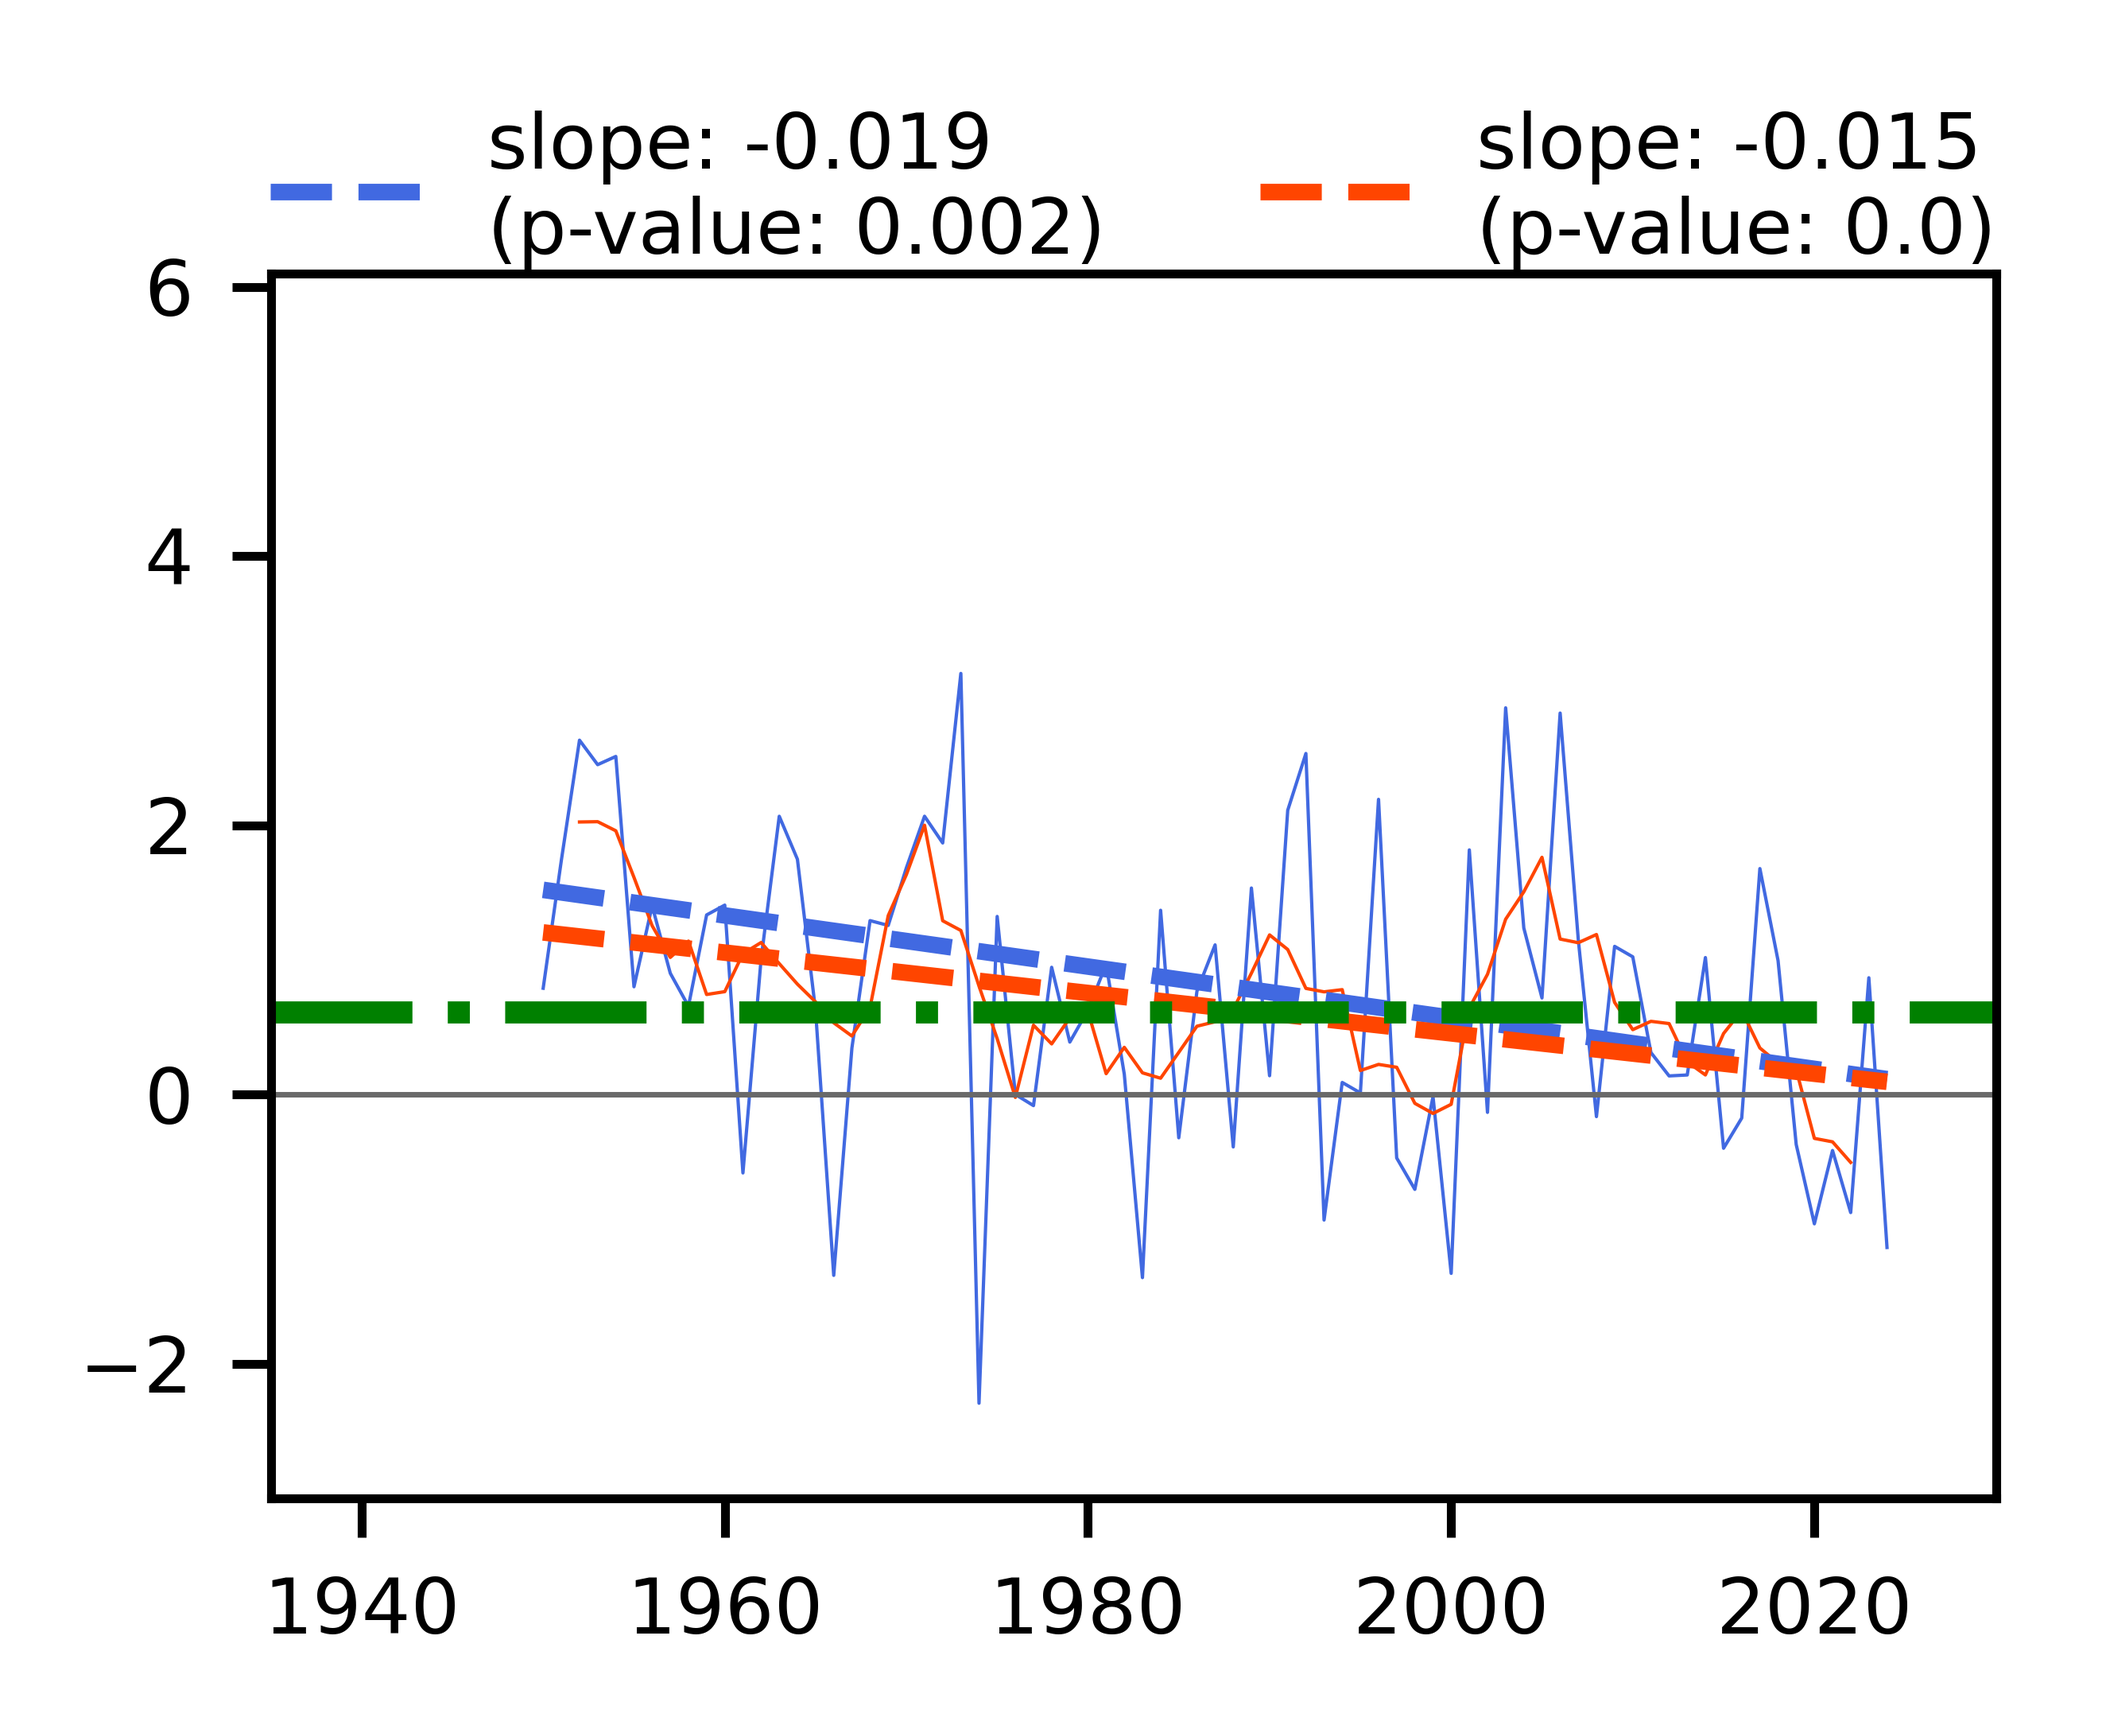
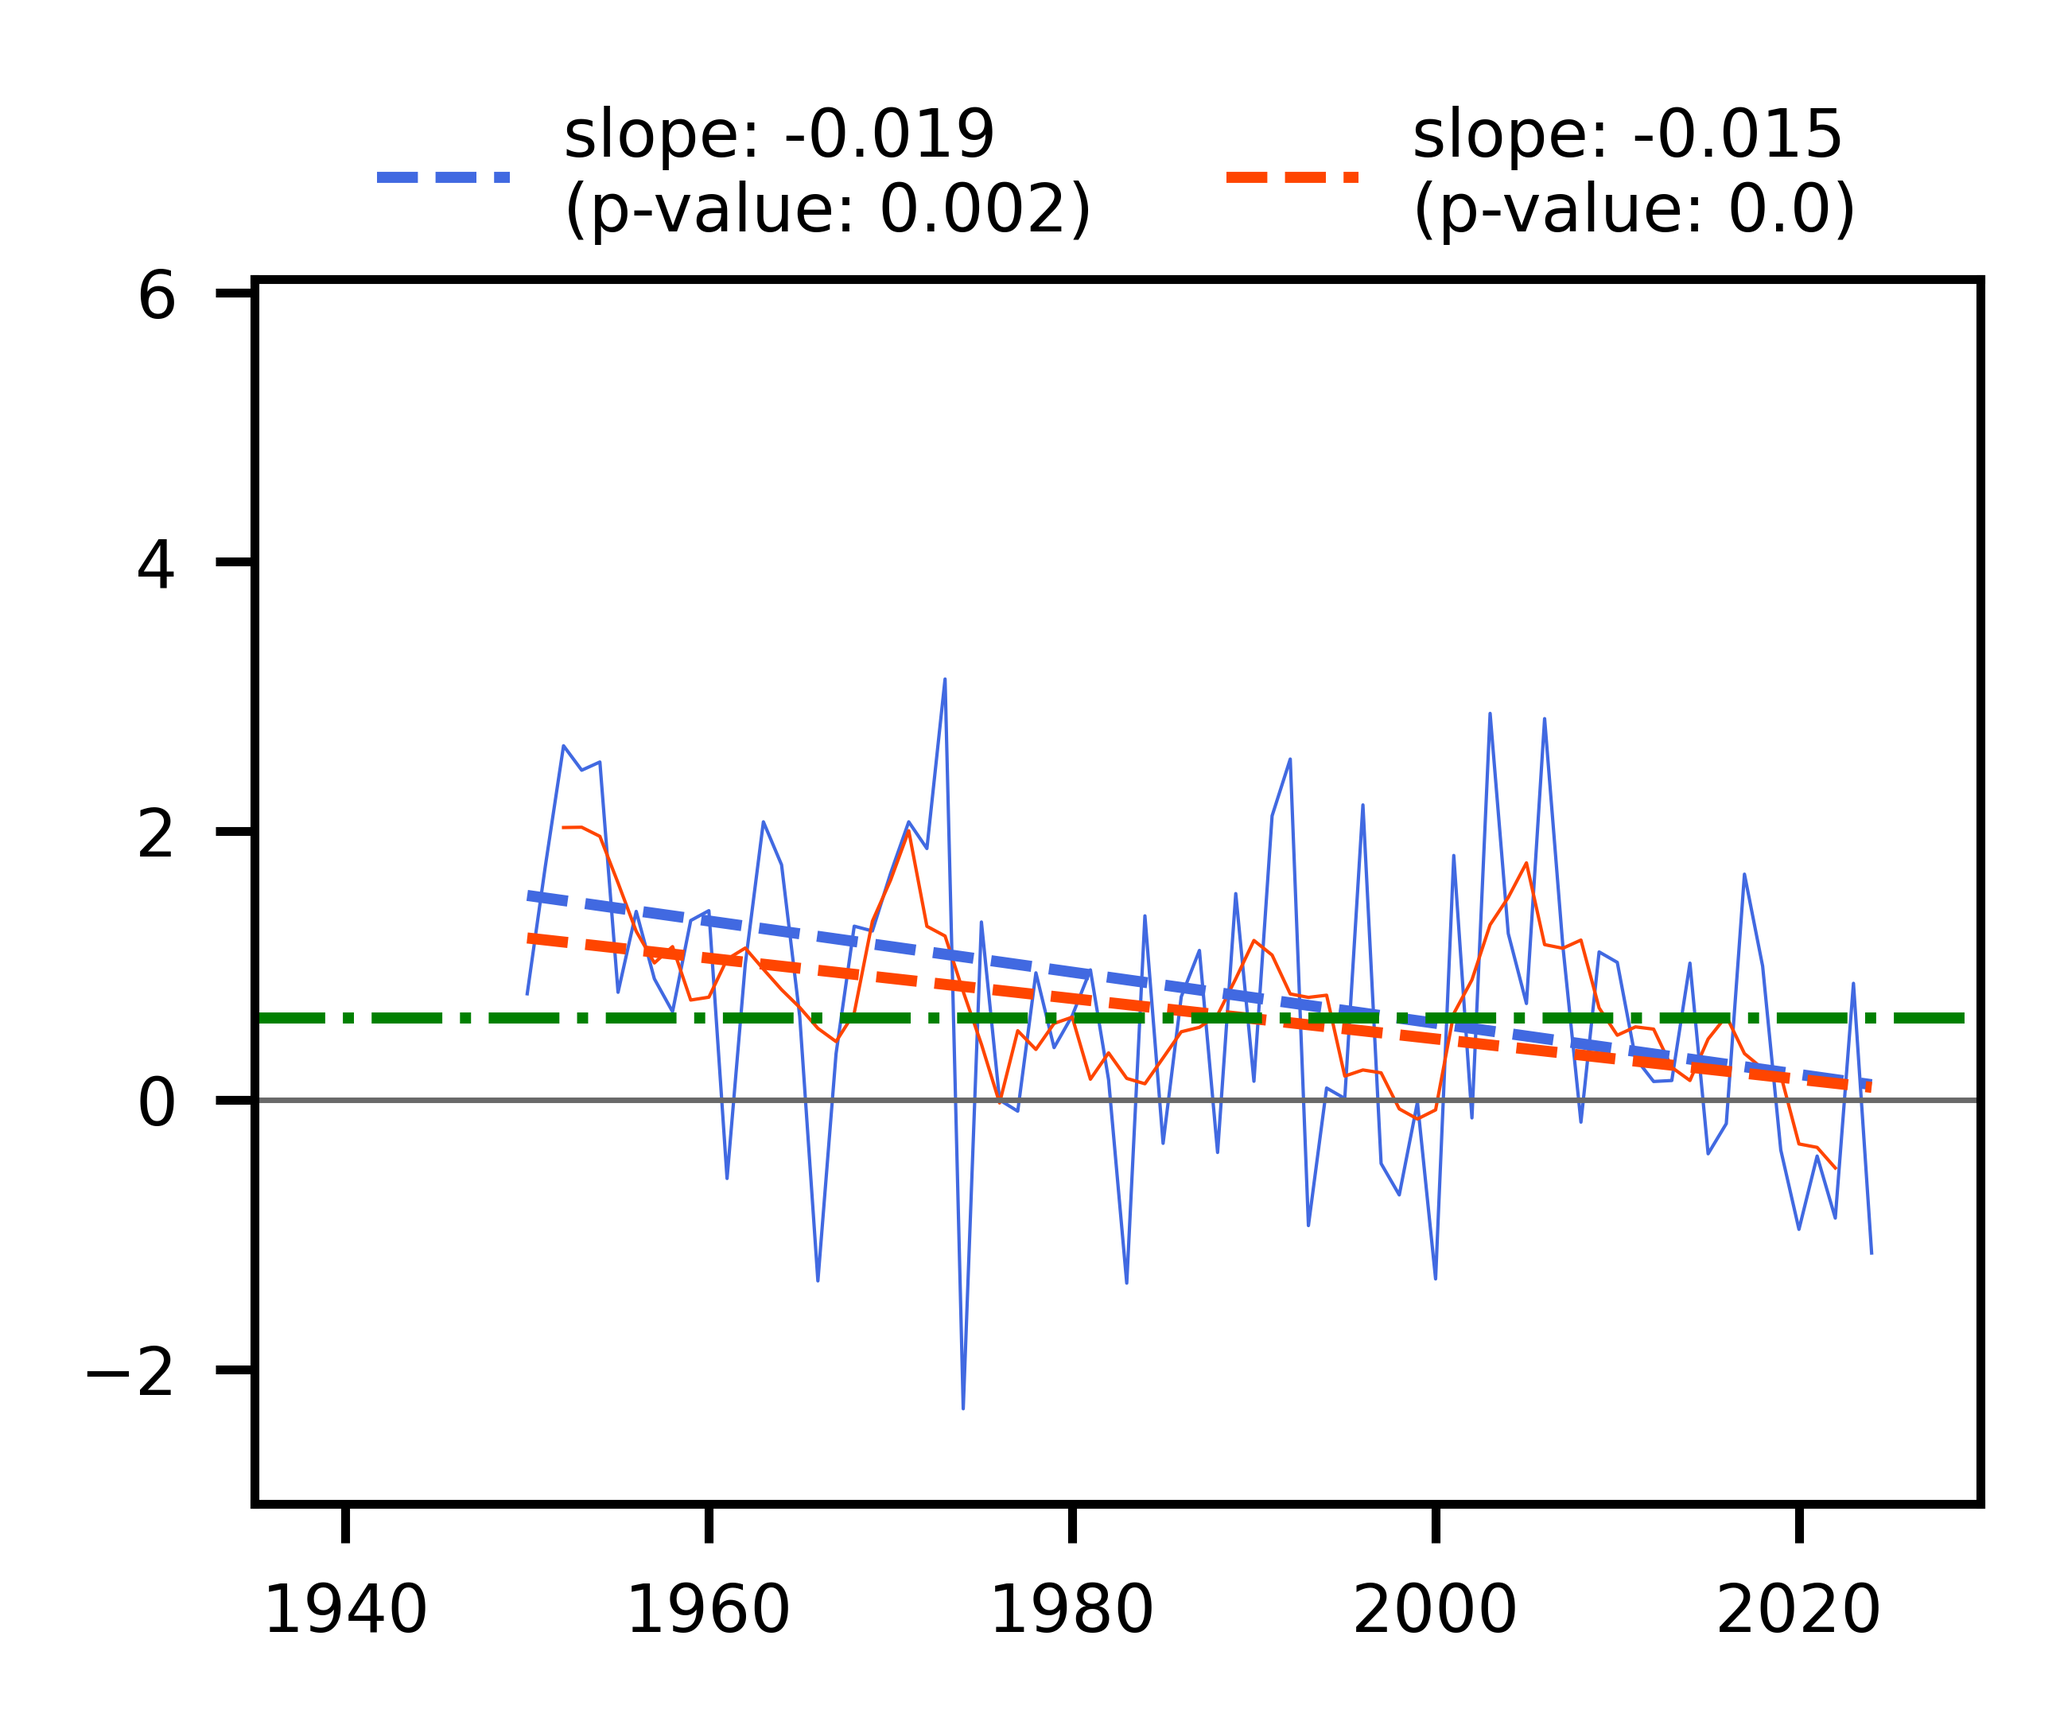
improved forecasts

Changed region(s): [[0.0309, 0.0618, 0.9884, 0.9576]]

diff --git a/scripts/processed/11_plot_trend_pt.py b/scripts/processed/11_plot_trend_pt.py
@@ -83,15 +83,15 @@ for season in season_list:
         plt.figure(figsize=(2.8, 2))
         plt.plot(year_list, curv_av, lw=0.3, color = "royalblue")
         plt.plot(year_list, running_mean_centered, lw=0.3, color = "orangered")
-        plt.plot(year_list, trend_vals, "--", lw=1.5, color = "royalblue", label = label_vals)
-        plt.plot(year_list, trend_rm, "--", lw=1.5, color = "orangered", label = label_rm)
-        plt.plot([1935, 2030], [curv_climate_pt, curv_climate_pt], linestyle = "dashdot", color = "green", lw = 2)
+        plt.plot(year_list, trend_vals, "--", lw=1, color = "royalblue", label = label_vals)
+        plt.plot(year_list, trend_rm, "--", lw=1, color = "orangered", label = label_rm)
+        plt.plot([1935, 2030], [curv_climate_pt, curv_climate_pt], linestyle = "dashdot", color = "green", lw = 1)
         plt.plot([1935, 2030], [0,0], lw = 0.5, color = "dimgray")
         plt.xlim([1935, 2030])
         plt.ylim([-3, 6.1])
-        plt.xticks(fontsize=7)
-        plt.yticks(fontsize=7)
-        plt.legend(loc="upper center", bbox_to_anchor=(0.5, 1.19), ncol=2, frameon=False, fontsize=7)
+        plt.xticks(fontsize=6)
+        plt.yticks(fontsize=6)
+        plt.legend(loc="upper center", bbox_to_anchor=(0.5, 1.19), ncol=2, frameon=False, fontsize=6)
         
         # Saving the curv climatology plot
         dir_out_temp = f"{dir_out}/{name_pt}/{year_s}_{year_f}"
